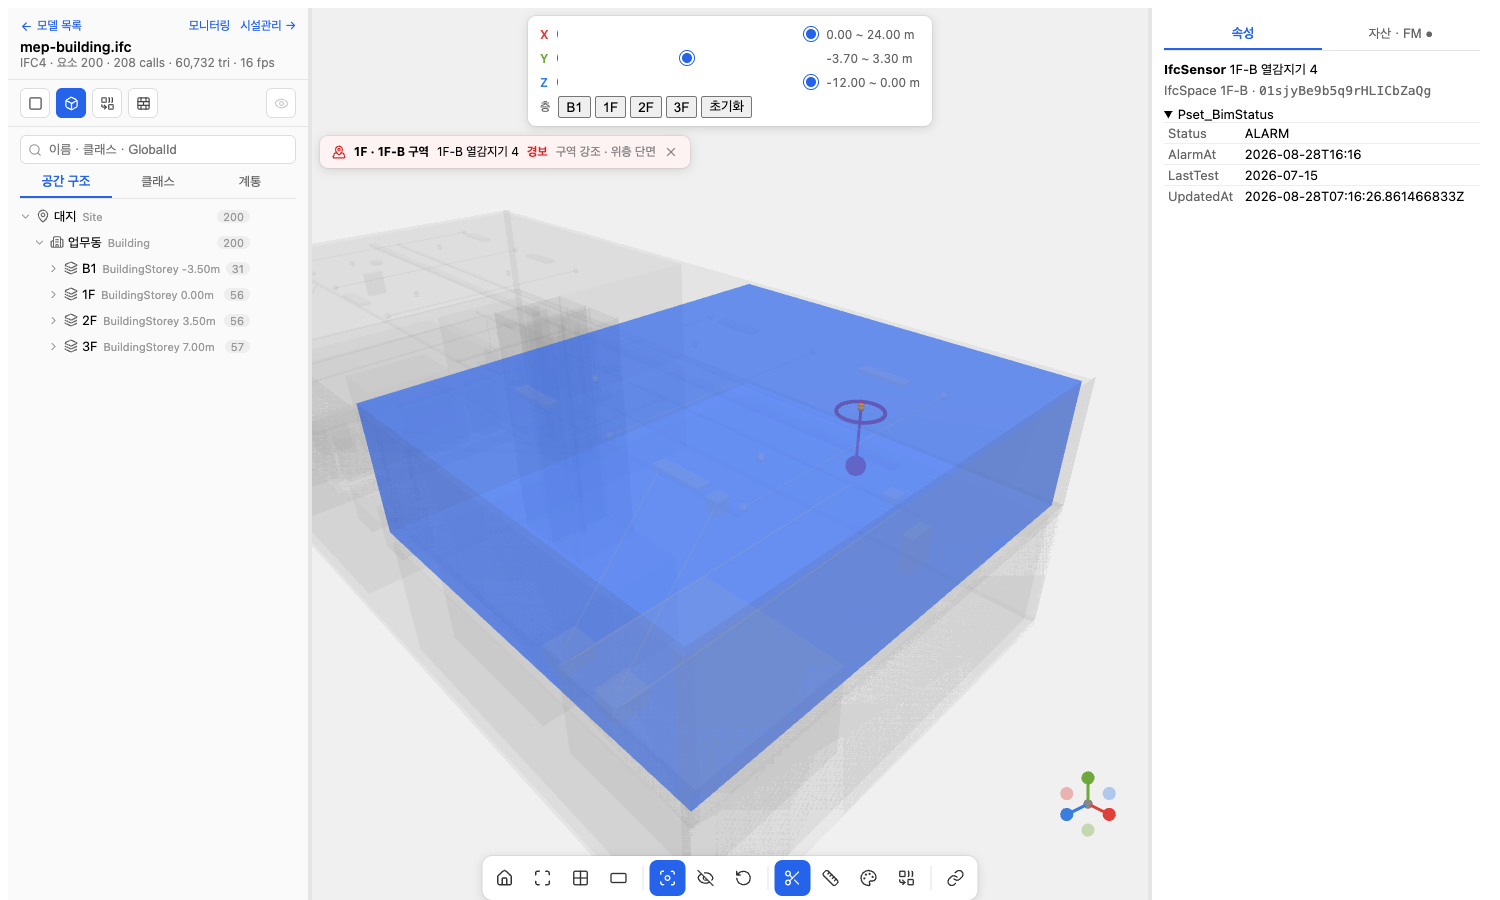
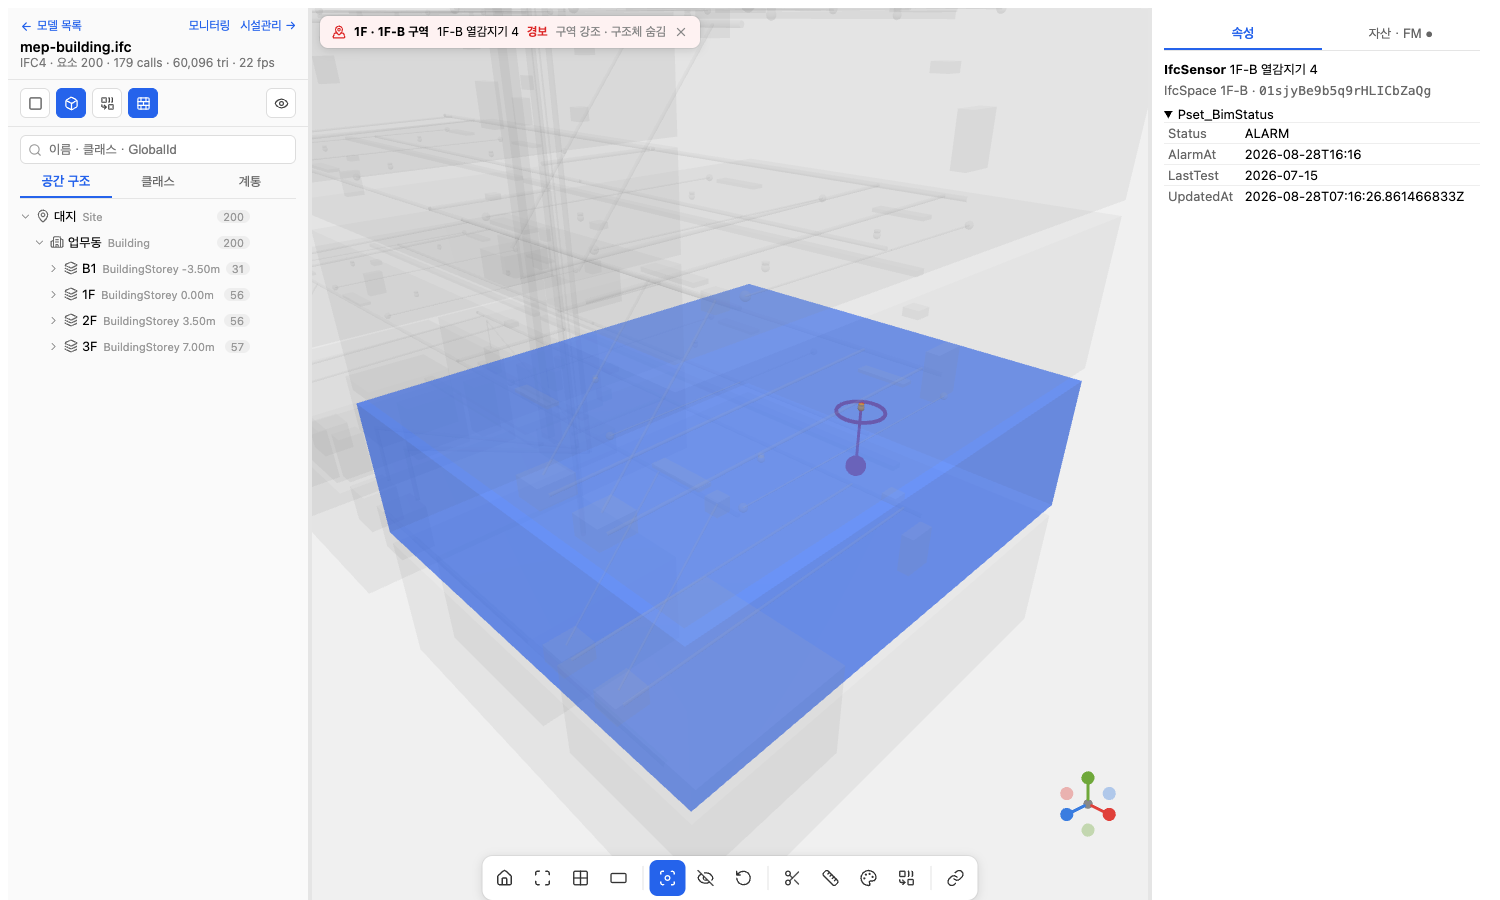
포커스 모드: 위층 단면 대신 구조체(외벽·슬래브·지붕) 숨김, 해제 시 복원

diff --git a/web/src/viewer/Viewer.tsx b/web/src/viewer/Viewer.tsx
@@ -7,7 +7,7 @@ import SystemPanel, { STATUS_COLOR, systemColor } from './SystemPanel'
 import { StatusBadge, day } from './FmPanel'
 import FmPanel from './FmPanel'
 import { Scene3D, type Kind, type Stats, type View } from './scene'
-import LeftPanel, { type Hidden, type Opts, type SelectMode } from './LeftPanel'
+import LeftPanel, { STRUCT, type Hidden, type Opts, type SelectMode } from './LeftPanel'
 import ColorPanel from './ColorPanel'
 import ContextMenu, { type MenuItem } from './ContextMenu'
 import './viewer.css'
@@ -49,11 +49,10 @@ export default function Viewer({ modelId }: { modelId: string }) {
     const space = node?.ifcClass === 'IfcSpace' ? node : undefined
     const storey = node?.ifcClass === 'IfcBuildingStorey' ? node : node?.parentId != null ? spatial.find(n => n.id === node.parentId) : undefined
     setOpts(o => ({ ...o, spaces: true })); setRoute(undefined); setPower(undefined)
-    setHidden(h => ({ ...h, solo: undefined }))
+    setHidden(h => { const c = new Set(h.classes); for (const k of STRUCT) c.add(k); return { ...h, classes: c, solo: undefined } })   // 단면 대신 외벽·슬래브 숨김
     s.select([gid])
     setFocus('ghost')
     s.preset('home')   // 위에서 비스듬히 — 단면 아래 구역이 보이는 각도
-    if (storey?.elevation != null && bounds) setClip([bounds.min[0], bounds.max[0], bounds.min[1], storey.elevation + 3.3, bounds.min[2], bounds.max[2]])
     s.fitAll(space ? [space.globalId, gid] : [gid])
     const st = statusRows.find(r => r.globalId === gid)?.status.Status
     setFocusInfo({ gid, name: el.name ?? gid, zone: space?.name ?? undefined, storey: storey?.name ?? undefined, status: st, spaceGid: space?.globalId })
@@ -226,8 +225,8 @@ export default function Viewer({ modelId }: { modelId: string }) {
             <MapPinned size={14} style={{ color: focusInfo.status === 'ALARM' ? '#dc2626' : focusInfo.status === 'FAULT' ? '#f59e0b' : '#2563eb' }} />
             <b>{focusInfo.storey}{focusInfo.zone ? ` · ${focusInfo.zone} 구역` : ''}</b><span>{focusInfo.name}</span>
             {focusInfo.status && <b style={{ color: focusInfo.status === 'ALARM' ? '#dc2626' : focusInfo.status === 'FAULT' ? '#f59e0b' : '#16a34a' }}>{{ ALARM: '경보', FAULT: '장애', NORMAL: '정상' }[focusInfo.status] ?? focusInfo.status}</b>}
-            <span style={{ color: '#888' }}>구역 강조 · 위층 단면</span>
-            <X size={14} style={{ cursor: 'pointer', color: '#888' }} onClick={() => { setFocusInfo(undefined); setFocus('none'); scene.current?.setFocus(undefined); scene.current?.setMarker(undefined); setClip(null) }} /></div>}
+            <span style={{ color: '#888' }}>구역 강조 · 구조체 숨김</span>
+            <X size={14} style={{ cursor: 'pointer', color: '#888' }} onClick={() => { setFocusInfo(undefined); setFocus('none'); scene.current?.setFocus(undefined); scene.current?.setMarker(undefined); setHidden(h => { const c = new Set(h.classes); for (const k of STRUCT) c.delete(k); return { ...h, classes: c } }) }} /></div>}
 
           {/* 작업지시로 진입: 배너 */}
           {wo && <div style={{ position: 'absolute', top: 8, left: 8, display: 'flex', alignItems: 'center', gap: 8, padding: '8px 12px', background: '#fff', borderRadius: 8, boxShadow: '0 2px 10px #0002, 0 0 0 1px #0000000d', fontSize: 12, maxWidth: 420 }}>

diff --git a/web/src/viewer/LeftPanel.tsx b/web/src/viewer/LeftPanel.tsx
@@ -12,7 +12,7 @@ export type SelectMode = 'set' | 'toggle' | 'range'
 export type Hidden = { nodes: Set<number>; classes: Set<string>; gids: Set<string>; solo?: { key: string; label: string; gids: Set<string> } }
 export type Opts = { openings: boolean; spaces: boolean; merged: boolean }
 
-const STRUCT = ['IfcWall', 'IfcWallStandardCase', 'IfcSlab', 'IfcRoof', 'IfcCovering', 'IfcCurtainWall']   // 구조체 숨김 토글 대상
+export const STRUCT = ['IfcWall', 'IfcWallStandardCase', 'IfcSlab', 'IfcRoof', 'IfcCovering', 'IfcCurtainWall']   // 구조체 숨김 토글 대상 (포커스 모드도 사용)
 const CLASS_ICON: [RegExp, LucideIcon][] = [[/Door/, DoorOpen], [/Window/, LayoutGrid], [/Furnish|Furniture/, Sofa], [/Wall/, Square], [/Slab|Roof|Covering/, Layers], [/Flow|Duct|Pipe|Terminal/, Wind], [/Site/, MapPin], [/Building$/, Building2], [/Storey/, Layers], [/Space/, Box]]
 export const classIcon = (c: string) => CLASS_ICON.find(([re]) => re.test(c))?.[1] ?? Tag
 
